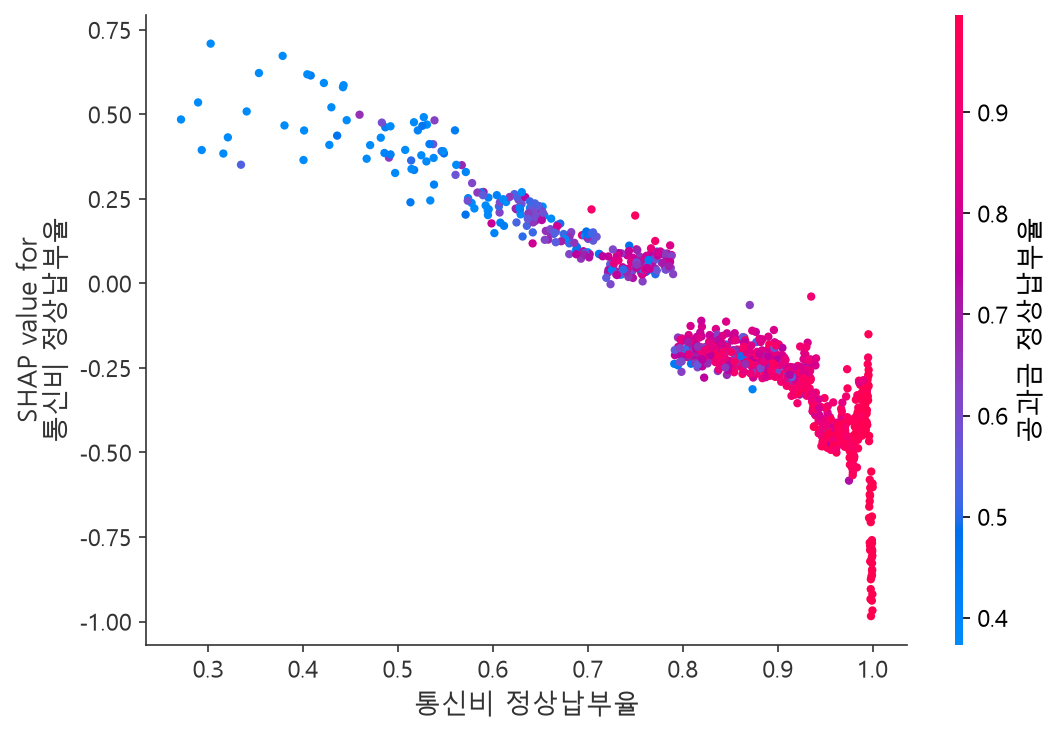
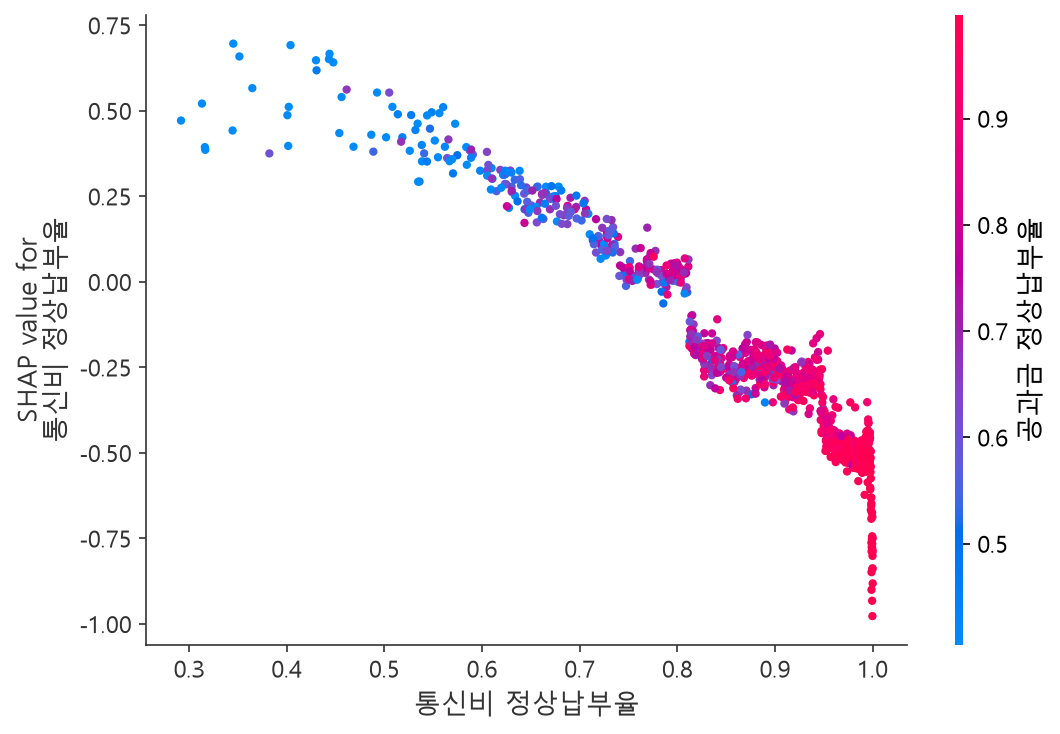
docs: 재학습 결과로 노트북 결과 주석, model_selection.md, README 수치와 그림 갱신
- notebooks/05, 05-1, 06~09: [결과] 주석을 새 수치로 갱신 (PR #9 전 대비 변화도 기록)
  - 씬파일러 uplift +0.0289 -> +0.0317 (95% CI +0.022 ~ +0.041): 점추정으로 목표 달성, 신뢰구간에 0.03 포함
  - 09: 승인 사례가 바뀌어 "신용한도 사용률 0%" 주의점을 Test 전체 기준(1,643명 중 89%가 위험 증가)으로 다시 씀
- docs/model_selection.md: 선정 이유를 CV AUC 1위 -> ANOVA 기준으로 변경, ANOVA 결과 절 추가, 모든 수치와 참고 코드 갱신
- docs/*.png: 노트북 07~09를 다시 실행해 그림 8장 갱신
- README.md: Test AUC, 대안 변수 실제 상관계수, MLflow 기록 규칙 표 갱신
- src/models/tune.py: fold AUC 주석 수정 (ANOVA는 src/statistics/anova.py가 다시 계산)

diff --git a/notebooks/05_thin_filter_uplift.py b/notebooks/05_thin_filter_uplift.py
@@ -56,46 +56,49 @@ for seg_name, mask in [('씬파일러', thin_all), ('일반', ~thin_all)]:
           f'대안-전통 95% CI [{np.percentile(alt_up, 2.5):+.4f}, {np.percentile(alt_up, 97.5):+.4f}]')
 
 '''
-[결과] (2026-11-08, PR #4 이후 새 데이터 / Test 22,500건, 씬파일러 6,670건)
+[결과] (2026-11-16, PR #9 반영 데이터 / Test 22,500건, 씬파일러 6,668건)
 하이퍼파라미터: models/best_params.json의 XGBoost 값 (scale_pos_weight, combined 기준 튜닝)을 세 조합에 똑같이 적용
 XGBoost 스레드 수 N_JOBS=4로 고정
 
 구분                 전체     씬파일러   일반
-전통(traditional)   0.8600   0.8099   0.8791
-대안(alternative)   0.8438   0.8327   0.8485
-통합(combined)      0.8638   0.8389   0.8747
+전통(traditional)   0.8600   0.8094   0.8792
+대안(alternative)   0.8458   0.8344   0.8506
+통합(combined)      0.8639   0.8411   0.8738
 
-씬파일러 AUC uplift (통합 - 전통): +0.0289 -> 목표(+0.03) 미달
-일반 AUC uplift (통합 - 전통):     -0.0044
+씬파일러 AUC uplift (통합 - 전통): +0.0317 -> 목표(+0.03) 달성
+일반 AUC uplift (통합 - 전통):     -0.0054
 
 [부트스트랩 검증] Test를 1,000번 복원추출해 uplift가 얼마나 흔들리는지 확인 (seed 42)
 구분       통합-전통 95% 신뢰구간    P(uplift > 0)   P(uplift >= 0.03)   대안-전통 95% 신뢰구간
-씬파일러   [+0.0191, +0.0386]       1.00            0.41                [+0.0100, +0.0358]
-일반       [-0.0074, -0.0015]       0.00            0.00                [-0.0369, -0.0236]
+씬파일러   [+0.0224, +0.0414]       1.00            0.63                [+0.0123, +0.0376]
+일반       [-0.0085, -0.0022]       0.00            0.00                [-0.0353, -0.0219]
 
-[스레드 수에 따른 차이] 같은 데이터·하이퍼파라미터에서 XGBoost 스레드 수만 바꿨을 때 씬파일러 uplift
+[스레드 수에 따른 차이] (PR #9 전 데이터에서 측정) 같은 데이터·하이퍼파라미터에서 XGBoost 스레드 수만 바꿨을 때 씬파일러 uplift
 n_jobs=2: +0.0314 / n_jobs=4: +0.0289 / n_jobs=-1(16코어): +0.0304
--> 학습 자체의 흔들림이 ±0.0015 정도로, 목표(+0.03)와의 차이와 같은 크기. 그래서 N_JOBS를 고정해 재현성을 맞춤
+-> 학습 자체의 흔들림이 ±0.0015 정도로, 목표(+0.03)와의 차이와 비슷한 크기. 그래서 N_JOBS를 고정해 재현성을 맞춤
 
 [결론]
 1. 대안데이터는 씬파일러에게만 도움이 됨
-   - 씬파일러 uplift +0.029, 신뢰구간 하한도 +0.019 -> "효과가 있다"는 것은 확실함
-   - 일반 고객은 오히려 -0.004 (신뢰구간 전체가 0 미만) -> 금융이력이 충분하면 대안데이터가 거의 노이즈
+   - 씬파일러 uplift +0.032, 신뢰구간 하한도 +0.022 -> "효과가 있다"는 것은 확실함
+   - 일반 고객은 오히려 -0.005 (신뢰구간 전체가 0 미만) -> 금융이력이 충분하면 대안데이터가 거의 노이즈
    - 신용정보가 부족한 고객일수록 대안데이터의 보완 효과가 크다는 가설을 뒷받침
 
-2. 목표(+0.03) 달성은 "경계선"임
-   - 점추정은 스레드 수에 따라 +0.029~+0.031로 목표 바로 위아래를 오가고, 부트스트랩에서 목표 이상이 나온 비율은 41%
-   - 신뢰구간 [+0.019, +0.039] 안에 목표 0.03이 들어 있음 -> "달성/미달"을 통계적으로 가를 수 없음
-   - 리포트에는 "uplift +0.029 (95% CI +0.019 ~ +0.039), 목표 수준"처럼 범위와 함께 쓰는 것이 정확함
+2. 목표(+0.03)는 점추정으로 달성했지만 통계적으로 확실하다고는 할 수 없음
+   - 점추정 +0.0317로 목표를 넘었지만, 부트스트랩에서 목표 이상이 나온 비율은 63%
+   - 신뢰구간 [+0.022, +0.041] 안에 목표 0.03이 들어 있음 -> "확실히 넘는다"고 통계적으로 말할 수는 없음
+   - 리포트에는 "uplift +0.032 (95% CI +0.022 ~ +0.041)"처럼 범위와 함께 쓰는 것이 정확함
 
 3. 씬파일러에게는 대안데이터만으로도 전통보다 나음
-   - 씬파일러: 대안(0.8327) > 전통(0.8099), 차이 +0.023 (신뢰구간 하한 +0.010)
+   - 씬파일러: 대안(0.8344) > 전통(0.8094), 차이 +0.025 (신뢰구간 하한 +0.012)
    - 씬파일러는 연체 컬럼이 결측이라 전통 변수의 정보가 적기 때문
-   - 일반 고객은 반대로 전통(0.8791)이 대안(0.8485)보다 훨씬 높음 -> 대안데이터는 전통데이터의 "대체재"가 아니라
+   - 일반 고객은 반대로 전통(0.8792)이 대안(0.8506)보다 훨씬 높음 -> 대안데이터는 전통데이터의 "대체재"가 아니라
      전통데이터가 부족할 때 쓰는 "보완재"
 
+[PR #9(월소득 오류 기준 10 -> 300, 편향 강도 0.1 -> 0) 전 데이터 대비]
+씬파일러 uplift +0.0289 -> +0.0317, 일반 uplift -0.0044 -> -0.0054 (결론은 같음)
+
 [이전 데이터 대비 (PR #4 시뮬레이터 개편 전)]
-씬파일러 uplift +0.0768 -> +0.0289, 일반 uplift +0.0462 -> -0.0044
+씬파일러 uplift +0.0768 -> +0.0317, 일반 uplift +0.0462 -> -0.0054
 예전 시뮬레이터는 타겟으로 대안 변수 값을 직접 낮춰서 대안데이터가 정답 정보를 너무 많이 담고 있었음.
 지금은 신용점수(전통 변수로 만든 예측)에 노이즈를 더해 만들기 때문에, 대안데이터가 전통데이터와 겹치는 정보가 많아
 금융이력이 있는 일반 고객에게는 새로 주는 정보가 거의 없음

diff --git a/notebooks/09_shap_local.py b/notebooks/09_shap_local.py
@@ -39,27 +39,28 @@ for name, idx in cases.items():
   비교 기준은 Train에서 모델이 승인한 고객의 동일 연령대 중앙값 (models/reason_reference_v1.0.json).
   기여도는 과제 /explain 예시처럼 신용 관점 부호 (음수 = 불리).
 
-[결과] (2026-11-08, 새 데이터, threshold 0.5, 사례는 test 순서상 조건을 만족하는 첫 고객)
-1) 거절된 씬파일러 (고객 18636, 35-54세, 실제 부도) 부도 확률 0.8340, 위험 요인 11개
-  1. 공과금 정상납부율이 44%로, 동일 연령대 승인 고객 중앙값(87%) 대비 낮습니다 (기여도: -0.40)
-  2. 보유 대출·신용한도 수가 0개로, 동일 연령대 승인 고객 중앙값(8개) 대비 낮습니다 (기여도: -0.26)
-  3. 금융앱 월 접속 횟수가 6회로, 동일 연령대 승인 고객 중앙값(12회) 대비 낮습니다 (기여도: -0.23)
-  4. 통신비 정상납부율이 64%로, 동일 연령대 승인 고객 중앙값(90%) 대비 낮습니다 (기여도: -0.23)
-  5. 정기 결제 건수가 4건으로, 동일 연령대 승인 고객 중앙값(8건) 대비 낮습니다 (기여도: -0.22)
-2) 거절된 일반 고객 (고객 78872, 55+, 실제 부도) 부도 확률 0.9476, 위험 요인 10개
-  1. 90일 이상 연체 횟수가 5회로, 동일 연령대 승인 고객 중앙값(0회) 대비 높습니다 (기여도: -0.93)
-  2~5. 공과금 납부율 17%, 통신비 납부율 34%, 정기 결제 1건, 앱 접속 3회 (기여도 -0.54 ~ -0.32)
-3) 승인된 고객 (고객 100717, 55+, 씬파일러, 실제 정상) 부도 확률 0.0518, 위험 요인 4개 (기여 크기 모두 0.10 이하로 작음)
-  통신비·공과금 100% 완납 등이 위험을 크게 낮춤 (Waterfall에서 -0.97, -0.78)
+[결과] (2026-11-16, PR #9 반영 데이터, threshold 0.5, 사례는 test 순서상 조건을 만족하는 첫 고객)
+1) 거절된 씬파일러 (고객 18636, 35-54세, 실제 부도) 부도 확률 0.8733, 위험 요인 12개
+  1. 공과금 정상납부율이 44%로, 동일 연령대 승인 고객 중앙값(88%) 대비 낮습니다 (기여도: -0.50)
+  2. 통신비 정상납부율이 64%로, 동일 연령대 승인 고객 중앙값(91%) 대비 낮습니다 (기여도: -0.32)
+  3. 보유 대출·신용한도 수가 0개로, 동일 연령대 승인 고객 중앙값(8개) 대비 낮습니다 (기여도: -0.31)
+  4. 금융앱 월 접속 횟수가 6회로, 동일 연령대 승인 고객 중앙값(13회) 대비 낮습니다 (기여도: -0.30)
+  5. 정기 결제 건수가 4건으로, 동일 연령대 승인 고객 중앙값(8건) 대비 낮습니다 (기여도: -0.21)
+2) 거절된 일반 고객 (고객 78872, 55+, 실제 부도) 부도 확률 0.9552, 위험 요인 11개
+  1. 90일 이상 연체 횟수가 5회로, 동일 연령대 승인 고객 중앙값(0회) 대비 높습니다 (기여도: -0.86)
+  2~5. 공과금 납부율 21%, 통신비 납부율 38%, 앱 접속 4회, 정기 결제 1건 (기여도 -0.58 ~ -0.37)
+3) 승인된 고객 (고객 85390, 55+, 씬파일러, 실제 정상) 부도 확률 0.0970, 위험 요인 2개 (씬파일러 -0.09, 부양가족 수 -0.01로 작음)
+  공과금 93%, 통신비 95% 납부 등이 위험을 크게 낮춤 (Waterfall에서 -0.57, -0.46)
 
 그림 (docs/): shap_waterfall_rejected_thin.png, shap_waterfall_rejected_normal.png, shap_waterfall_approved.png
 
 [해석]
 - 씬파일러는 연체 기록이 없어(결측) 전통 변수로는 판단 근거가 약함 -> 사유 5개 중 4개가 대안 변수.
-  반대로 일반 고객은 "90일 이상 연체 5회"가 단독 1위(-0.93)로 압도적. 05의 결론(대안데이터는 씬파일러의 보완재)과 같은 그림.
+  반대로 일반 고객은 "90일 이상 연체 5회"가 단독 1위(-0.86)로 압도적. 05의 결론(대안데이터는 씬파일러의 보완재)과 같은 그림.
 - 승인된 씬파일러(사례 3)도 연체 기록이 없지만 대안 변수가 좋아서 승인됨 -> 대안데이터가 씬파일러에게 "승인 근거"를 만들어 줌.
-- 주의할 점: 사례 3에서 "신용한도 사용률 0%"가 위험을 올림(+0.10). 한도를 전혀 안 쓰는 사람은 신용 활동이 없다는 신호로
-  학습된 것으로 보이며, 문장("중앙값 6% 대비 낮습니다")만 보면 고객이 이해하기 어려울 수 있음.
+- 주의할 점: Test에서 신용한도 사용률이 0%인 고객 1,643명 중 89%는 이 변수가 위험을 올림(SHAP 평균 +0.10).
+  한도를 전혀 안 쓰는 사람은 신용 활동이 없다는 신호로 학습된 것으로 보이며,
+  거절 사유 문장("동일 연령대 승인 고객 중앙값 대비 낮습니다")만 보면 고객이 이해하기 어려울 수 있음.
 
 [결론]
 1. 거절 사유 Top 5가 과제 형식(feature, current_value, shap_contribution, explanation + rank, feature_name_kr,

diff --git a/notebooks/07_precision_recall.py b/notebooks/07_precision_recall.py
@@ -49,38 +49,38 @@ print(f'\nKS 최적 threshold: {ks_thr:.4f} (KS={ks:.4f}) / F1 최적 threshold:
 threshold(임계값)를 그어서 결정해야 함. threshold를 바꾸면 Precision과 Recall이
 트레이드오프 관계로 움직이므로, 여러 지점을 비교해 threshold 선택의 근거를 마련함.
 
-[결과] (2026-11-08, PR #4 이후 새 데이터 / models/xgboost_v1.0.joblib 로드, Test 22,500건 중 부도 1,504건)
+[결과] (2026-11-16, PR #9 반영 데이터 / models/xgboost_v1.0.joblib 로드, Test 22,500건 중 부도 1,504건)
 threshold | precision | recall
-0.3       | 0.1387    | 0.9049
-0.4       | 0.1718    | 0.8544
-0.5       | 0.2132    | 0.7766   <- train.py DECISION_THRESHOLD 기본값. MLflow 기록(precision 0.2132, recall 0.7766)과 일치
-0.6       | 0.2668    | 0.6742
-0.7       | 0.3388    | 0.5798
+0.3       | 0.1392    | 0.9036
+0.4       | 0.1725    | 0.8511
+0.5       | 0.2156    | 0.7753   <- train.py DECISION_THRESHOLD 기본값. MLflow 기록(precision 0.2156, recall 0.7753)과 일치
+0.6       | 0.2650    | 0.6789
+0.7       | 0.3372    | 0.5858
 
-F1 최대 지점: threshold=0.7758, precision=0.4042, recall=0.4894, f1=0.4427
+F1 최대 지점: threshold=0.7895, precision=0.4135, recall=0.4781, f1=0.4434
 
 threshold별 실제 건수 (Test 22,500건)
 threshold        거절 건수(거절률)    거절 중 실제 부도   놓친 부도
-0.4844 (KS)      5,740 (25.5%)       1,189              315
-0.5 (기본값)     5,478 (24.3%)       1,168              336
-0.7758 (F1)      1,820 (8.1%)          735              769
+0.4833 (KS)      5,706 (25.4%)       1,192              312
+0.5 (기본값)     5,407 (24.0%)       1,166              338
+0.7895 (F1)      1,739 (7.7%)          719              785
 
 [비교 참고]
-KS 기준 최적 threshold: 0.4844 (TPR-FPR 차이 최대)
-F1 기준 최적 threshold: 0.7758 (Precision-Recall 조화평균 최대)
+KS 기준 최적 threshold: 0.4833 (TPR-FPR 차이 최대)
+F1 기준 최적 threshold: 0.7895 (Precision-Recall 조화평균 최대)
 -> 최적화 기준(무엇을 "최선"으로 정의하는가)에 따라 최적 threshold 자체가 달라짐
 
 [원인] 옛 결과(F1 최대 0.6392 @0.8467, KS threshold 0.5044)와 달라진 이유
 - 타겟 누수 제거(PR #4)로 모델이 부도/정상을 덜 확실하게 가르게 됨 -> 같은 threshold에서 precision이 크게 낮아짐
-  (0.5 기준 precision 0.3247 -> 0.2132)
+  (0.5 기준 precision 0.3247 -> 0.2156)
 - precision이 낮은 기본 이유는 불균형: 부도율 6.68%라 정상 고객 일부만 잘못 걸러도 거절 목록에서 정상 고객 비율이 커짐
   (scale_pos_weight로 부도 쪽 가중치를 올렸기 때문에 확률이 전체적으로 높게 나오는 것도 영향)
 
 [결론]
 threshold를 낮추면 Recall(위험고객을 놓치지 않는 정도)은 올라가지만 Precision은 떨어지고, 높이면 반대로 움직임.
 
-F1 최대 지점(0.7758)은 거절을 8%로 줄이는 대신 부도 고객의 절반(769/1,504)을 놓침.
-KS/기본값 지점(0.48~0.5)은 부도의 78%를 잡지만 거절 고객 4명 중 3명 이상이 실제로는 정상 고객.
+F1 최대 지점(0.7895)은 거절을 8%로 줄이는 대신 부도 고객의 절반 이상(785/1,504)을 놓침.
+KS/기본값 지점(0.48~0.5)은 부도의 78~79%를 잡지만 거절 고객 4명 중 3명 이상이 실제로는 정상 고객.
 -> 둘 중 어느 쪽이 "맞다"가 아니라, 연체자 승인의 금전 손실(FN)과 정상 고객 부당 거절의 기회비용·차별(FP) 중
    무엇을 더 무겁게 볼지 정책으로 정해야 함.
 

diff --git a/notebooks/05-1_thin_filer_uplift_retuned.py b/notebooks/05-1_thin_filer_uplift_retuned.py
@@ -58,26 +58,26 @@ print(f'일반 AUC uplift (통합-전통, 재튜닝): {normal_uplift:+.4f}')
 "traditional/alternative는 자기 조합에 맞는 값이 아니라 저평가된 것 아닌가?"를 확인하려고
 조합마다 하이퍼파라미터를 따로 탐색함 (RandomizedSearchCV, n_iter=30, 조합당 개별 실행).
 
-[결과] (2026-11-08, PR #4 이후 새 데이터. CPU 4코어로 제한해서 실행)
+[결과] (2026-11-16, PR #9 반영 데이터. CPU 코어 제한 없이 실행)
 구분          전체     씬파일러   일반     튜닝시간   best_params
-traditional  0.8594   0.8096   0.8781   151초    max_depth=3, learning_rate=0.076, n_estimators=225, ...
-alternative  0.8439   0.8322   0.8488   112초    max_depth=3, learning_rate=0.017, n_estimators=229, ...
-combined     0.8641   0.8399   0.8746   176초    max_depth=4, learning_rate=0.041, n_estimators=233, ... (tune.py 결과와 같음)
+traditional  0.8596   0.8084   0.8788   173초    max_depth=3, learning_rate=0.076, n_estimators=225, ...
+alternative  0.8462   0.8348   0.8509   124초    max_depth=3, learning_rate=0.017, n_estimators=229, ...
+combined     0.8637   0.8404   0.8738   221초    max_depth=4, learning_rate=0.041, n_estimators=233, ... (tune.py 결과와 같음)
 
-씬파일러 AUC uplift (통합-전통, 재튜닝): +0.0303 -> 목표(+0.03) 달성
-일반 AUC uplift (통합-전통, 재튜닝):     -0.0035
+씬파일러 AUC uplift (통합-전통, 재튜닝): +0.0321 -> 목표(+0.03) 달성
+일반 AUC uplift (통합-전통, 재튜닝):     -0.0050
 
 [05(고정) vs 05-1(재튜닝) 비교]
 구분          05(고정) 씬파일러   05-1(재튜닝) 씬파일러   차이
-traditional   0.8099             0.8096                -0.0003
-alternative   0.8327             0.8322                -0.0005
-combined      0.8389             0.8399                +0.0010
-uplift        +0.0289            +0.0303               +0.0014
-(05는 N_JOBS=4 고정 결과. 05는 스레드 수만 바꿔도 uplift가 +0.029~+0.031로 움직임)
+traditional   0.8094             0.8084                -0.0010
+alternative   0.8344             0.8348                +0.0004
+combined      0.8411             0.8404                -0.0007
+uplift        +0.0317            +0.0321               +0.0004
+(05는 N_JOBS=4 고정 결과. 05는 스레드 수만 바꿔도 uplift가 ±0.0015 정도 움직임)
 
 [결론]
 조합별로 다시 튜닝해도 결과가 사실상 같음 (차이 0.001 수준, 스레드 수에 따른 흔들림과 같은 크기).
 traditional은 자기 최적값(max_depth=3)이 combined 값과 달랐지만 AUC는 거의 그대로 ->
 05번에서 고정 하이퍼파라미터로 비교한 것이 전통 모델을 저평가한 것이 아님을 확인.
--> 05번 결과를 그대로 채택. 다만 uplift가 목표와 거의 같으므로 05번의 부트스트랩 신뢰구간과 함께 보고한다.
+-> 05번 결과를 그대로 채택. 다만 uplift의 신뢰구간에 목표(0.03)가 들어 있으므로 05번의 부트스트랩 신뢰구간과 함께 보고한다.
 '''

diff --git a/src/models/tune.py b/src/models/tune.py
@@ -55,7 +55,7 @@ def tune_one(name: str, method: str, X, y, scale_pos_weight: float) -> dict:
         search.fit(X, y)
         tune_seconds = time.time() - start
 
-        # 최적 조합의 fold별 AUC (ANOVA 검증 2: 알고리즘별 비교에 쓸 수 있다)
+        # 최적 조합의 fold별 AUC (참고용. ANOVA는 src/statistics/anova.py가 최종 모델로 다시 계산한다)
         best = search.best_index_
         fold_scores = [float(search.cv_results_[f"split{i}_test_score"][best]) for i in range(CV_FOLDS)]
         for fold, score in enumerate(fold_scores):
